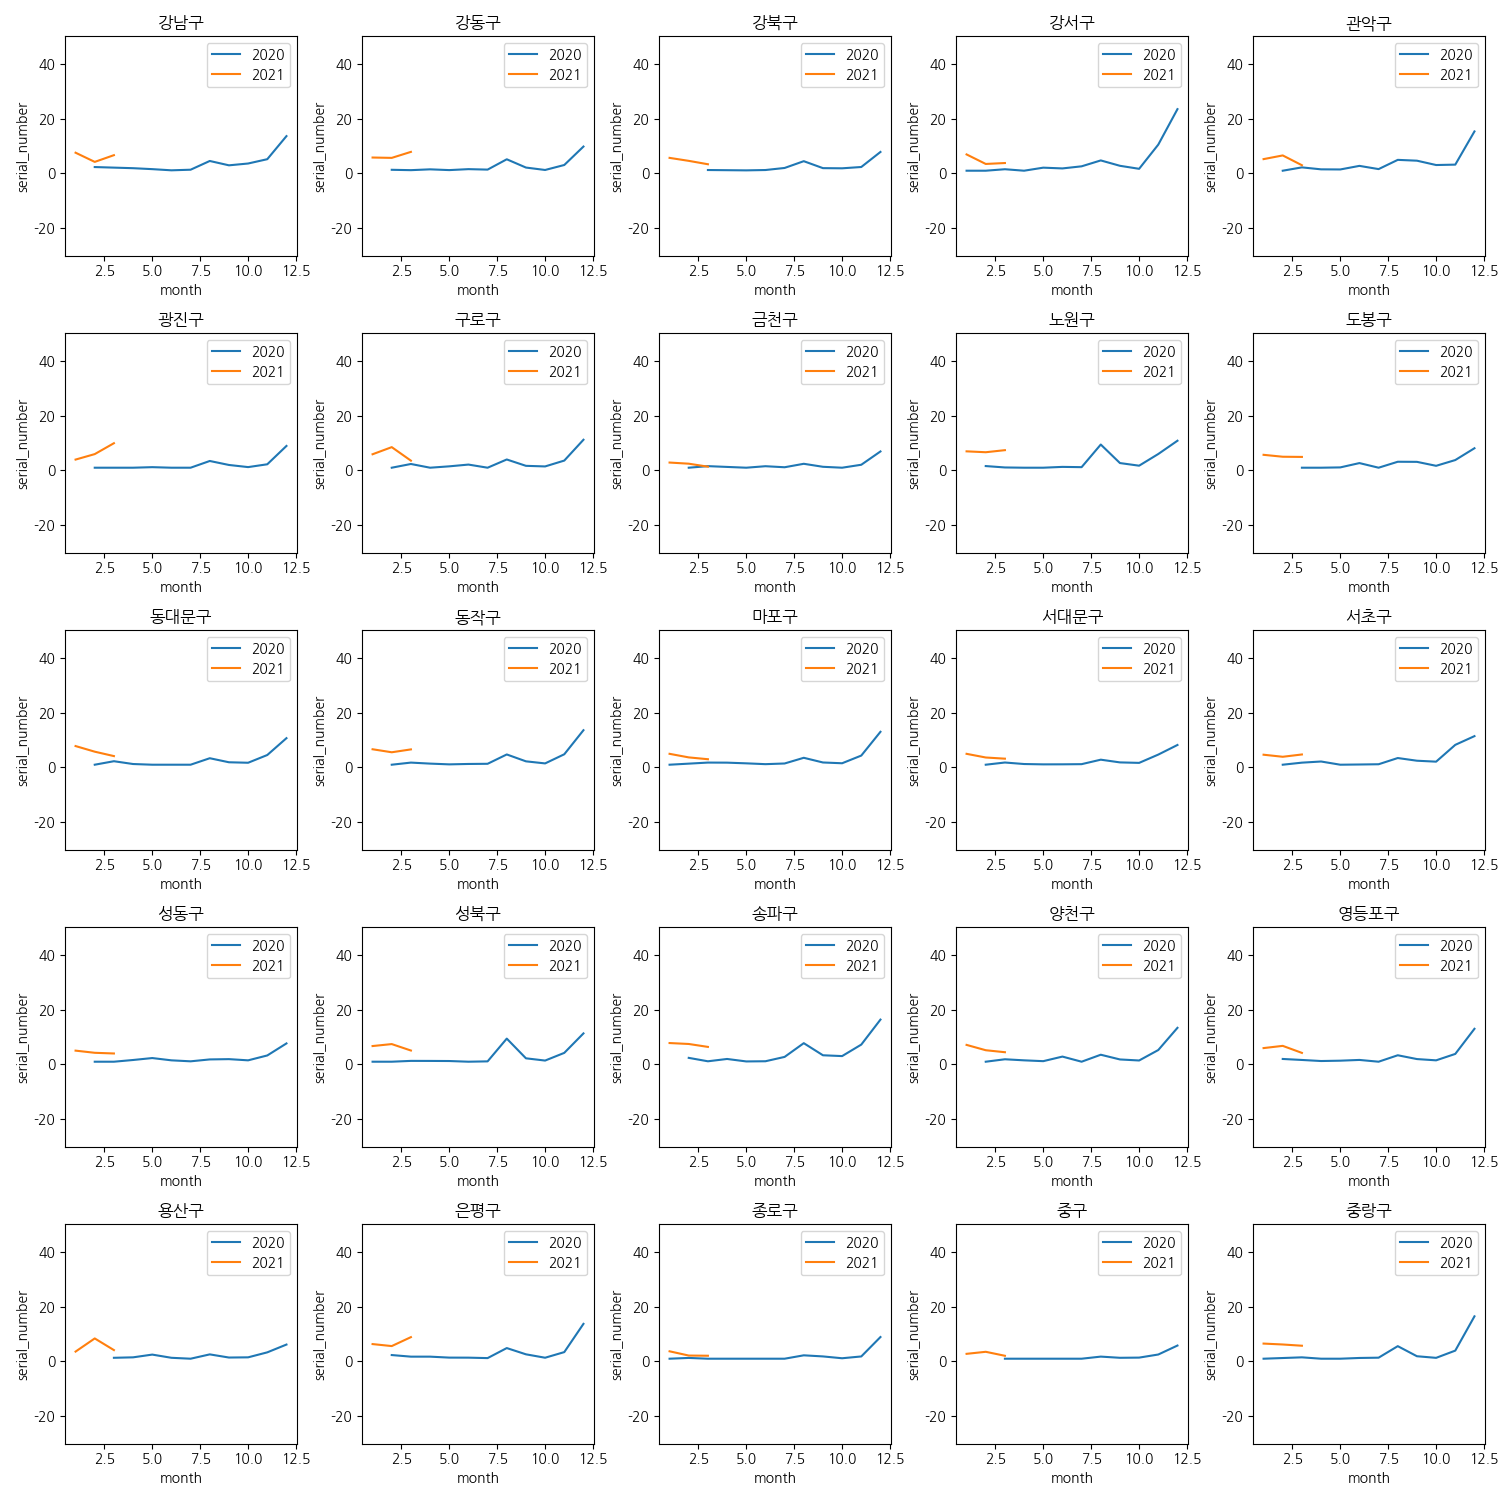
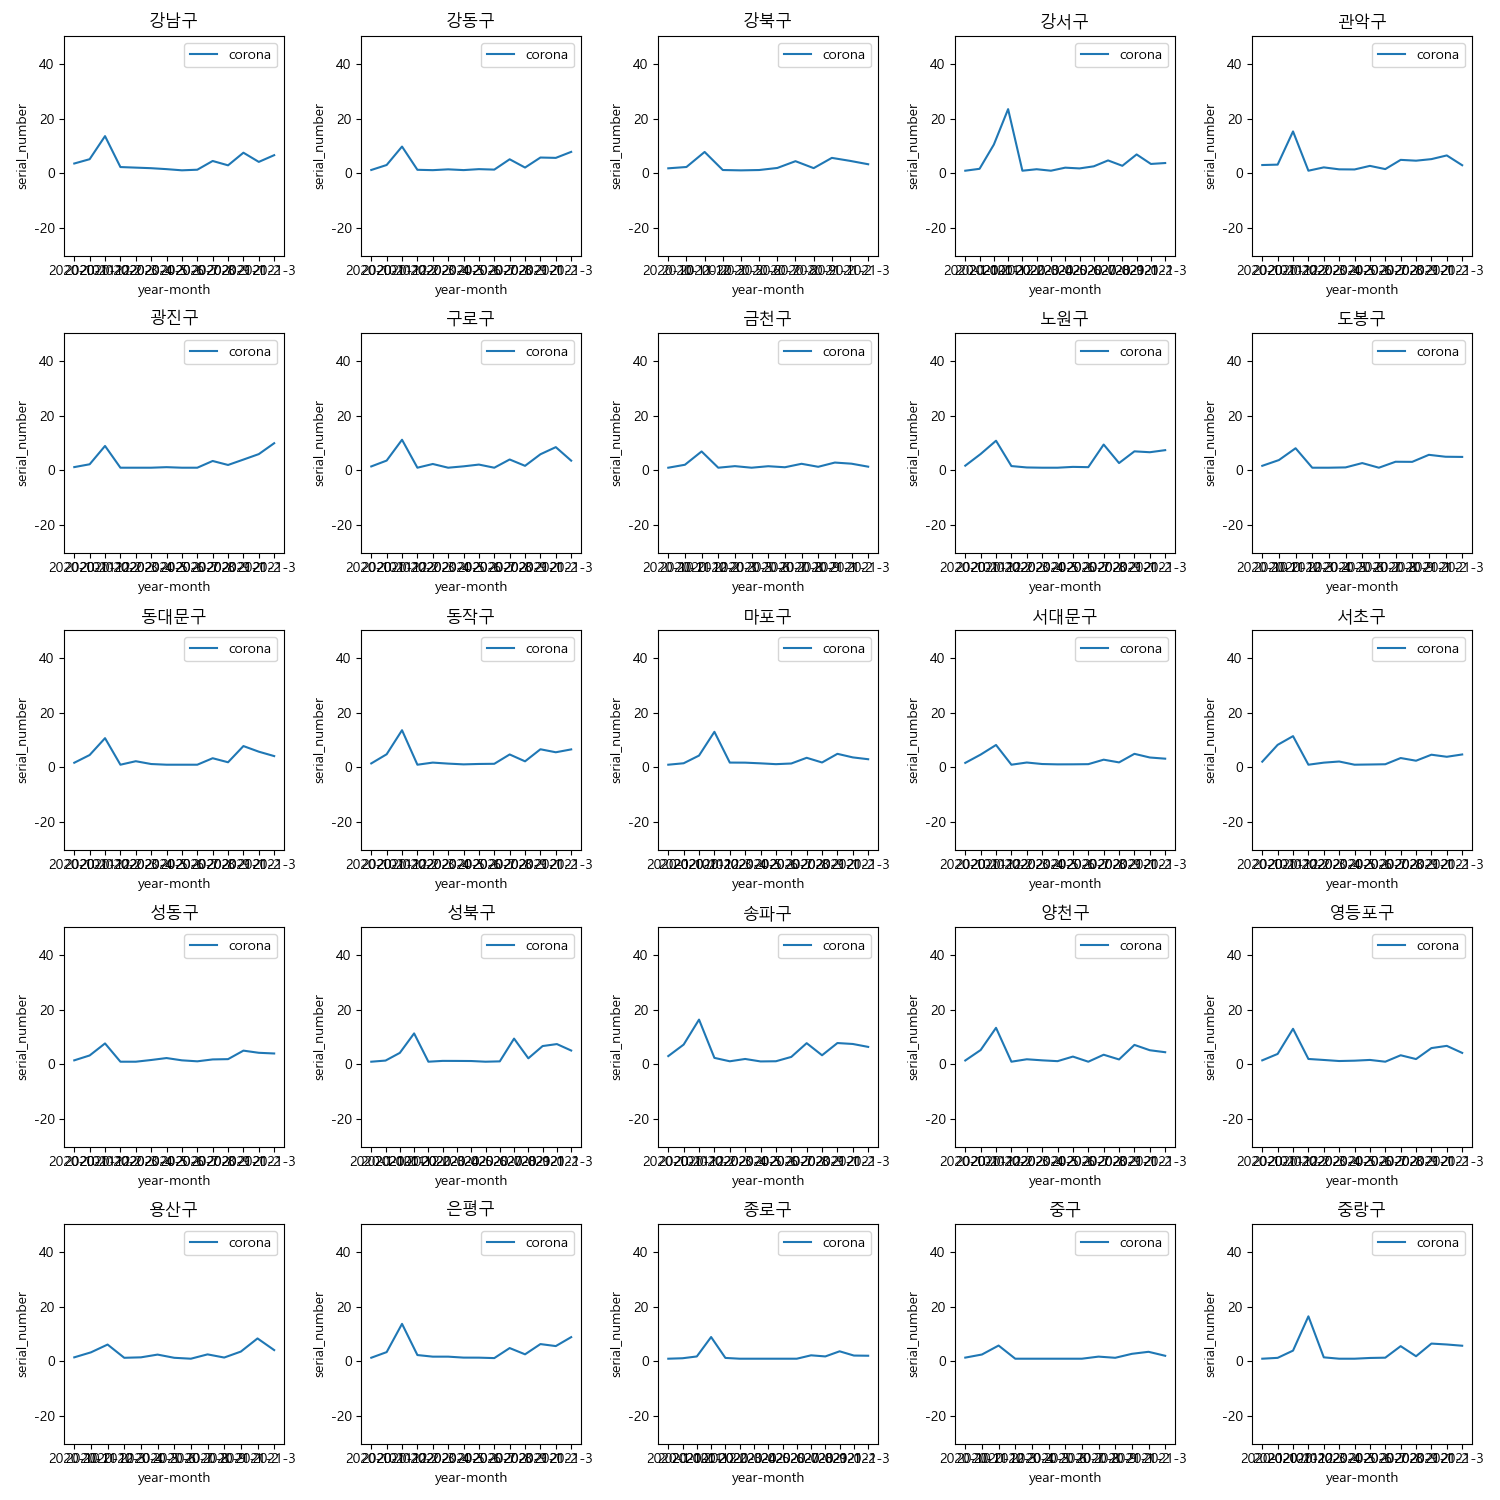
S04P23A203-141 BE/recomm Edit : Edit corona-data analysis function
코로나 데이터 분석 함수 수정

diff --git a/Backend/comeet/api/views.py b/Backend/comeet/api/views.py
@@ -301,10 +301,16 @@ class DataAnalysis(viewsets.GenericViewSet, mixins.ListModelMixin, View):
 class CoronaDataAnalysis(viewsets.GenericViewSet, mixins.ListModelMixin, View):
 
     def corona_data_analysis(self, *args, **kwargs):
+        f_path = "c:/Windows/Fonts/malgun.ttf"
+        font_name = fm.FontProperties(fname=f_path).get_name()
+        plt.rc('font', family=font_name)
+        plt.rc('axes', unicode_minus=False)
+
         corona_data = CoronaData.objects.all()
 
         corona_df = pd.DataFrame(
             list(corona_data.values("serial_number", "date", "gugun")))
+
 
         raw_1 = corona_df.groupby(by=['date', 'gugun']).count().reset_index()
 
@@ -314,40 +320,38 @@ class CoronaDataAnalysis(viewsets.GenericViewSet, mixins.ListModelMixin, View):
         raw_1['year'] = raw_1.date.dt.year
         raw_1['month'] = raw_1.date.dt.month
         raw_1['day'] = raw_1.date.dt.day
-
+        raw_1['year-month'] = raw_1['year'].apply(str) + '-' + raw_1['month'].apply(str)
+        print(raw_1)
         temp = raw_1.groupby(
-            by=["gugun", "year", "month"]).mean().reset_index()
+            by=["gugun", "year-month"]).mean().reset_index()
         raw_1 = temp.drop('day', axis=1)
+        raw_1 = temp.drop('month', axis=1)
+        raw_1 = temp.drop('year', axis=1)
 
         # 그래프 그리기
         raw_1 = raw_1.set_index('gugun')
-
         raw_1 = raw_1.drop('기타', axis=0)
         raw_1 = raw_1.drop('타시도', axis=0)
 
         fig, axes = plt.subplots(nrows=5, ncols=5, figsize=(15, 15))
-        print(raw_1.index.unique())
-
-        f_path = "c:/Windows/Fonts/NanumGothic.ttf"
-        font_name = fm.FontProperties(fname=f_path).get_name()
-        rc('font', family=font_name)
-        rc('axes', unicode_minus=False)
+        # print(raw_1.index.unique())
+        # print(raw_1)
 
         for i, f in enumerate(raw_1.index.unique()):
-            # print(i)
-            # print(r)
-            # print(c)
             r = int(i / 5)  # 행별로 그래프 배치하기
             c = i % 5  # 열별로 그래프 배치하기
 
-            df20 = raw_1[(raw_1.index == f) & (raw_1.year == 2020)]
-            df21 = raw_1[(raw_1.index == f) & (raw_1.year == 2021)]
-            # print(df21)
-            line20 = sns.lineplot(
-                data=df20, x='month', y='serial_number', label='2020', ax=axes[r][c])
+            # df20 = raw_1[(raw_1.index == f) & (raw_1.year == 2020)]
+            # df21 = raw_1[(raw_1.index == f) & (raw_1.year == 2021)]
+            df = raw_1[(raw_1.index == f)]
+            # line20 = sns.lineplot(
+            #     data=df20, x='month', y='serial_number', label='2020', ax=axes[r][c])
 
+            # line21 = sns.lineplot(
+            #     data=df21, x='month', y='serial_number', label='2021', ax=axes[r][c])
             line21 = sns.lineplot(
-                data=df21, x='month', y='serial_number', label='2021', ax=axes[r][c])
+                data=df, x='year-month', y='serial_number', label='corona', ax=axes[r][c])
+            
             line21.set_ylim(-30, 50)
             line21.set_title(f)
 
